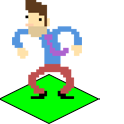
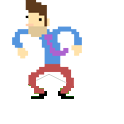
fixed moving and other shit

diff --git a/SimpleIsometric.js b/SimpleIsometric.js
@@ -16,8 +16,8 @@ var textureOffsetX = 191;
 var textureOffsetY = 287;
 var textureHeight = 65;
 var textureLength = 130;
-var figurX = 1;
-var figurY = 2;
+var figurX = 0;
+var figurY = 0;
 feld[figurY][figurX] = 2;
 var item;
 var kachel = new Image();
@@ -134,15 +134,16 @@ function zeichneFeld() {
 
 			switch (feld[i][j]) {
 				case 0:
-					context.drawImage(kachel, 191, 287, 130, 65, isoX, isoY, 130, 65);
+					context.drawImage(kachel, textureOffsetX, textureOffsetY, 130, 65, isoX, isoY, 130, 65);
 					break;
 				case 1:
 					isoY -= stein.height - kachel.height;
-					context.drawImage(stein, 191, 287, 130, 65, isoX, isoY, 130, 65);
+					context.drawImage(stein, textureOffsetX, textureOffsetY, 130, 65, isoX, isoY, 130, 65);
 					break;
 				case 2:
-					isoY -= figur.height - kachel.height;
-					context.drawImage(figur, offsetX,offsetY, figur.width, figur.height);
+					/* isoY -= figur.height - kachel.height; */
+					context.drawImage(kachel, textureOffsetX, textureOffsetY, 130, 65, isoX, isoY, 130, 65);
+					context.drawImage(figur, 0, 0, 124, 124, isoX, isoY-65, 124, 124);
 					break;
 
 				default:
